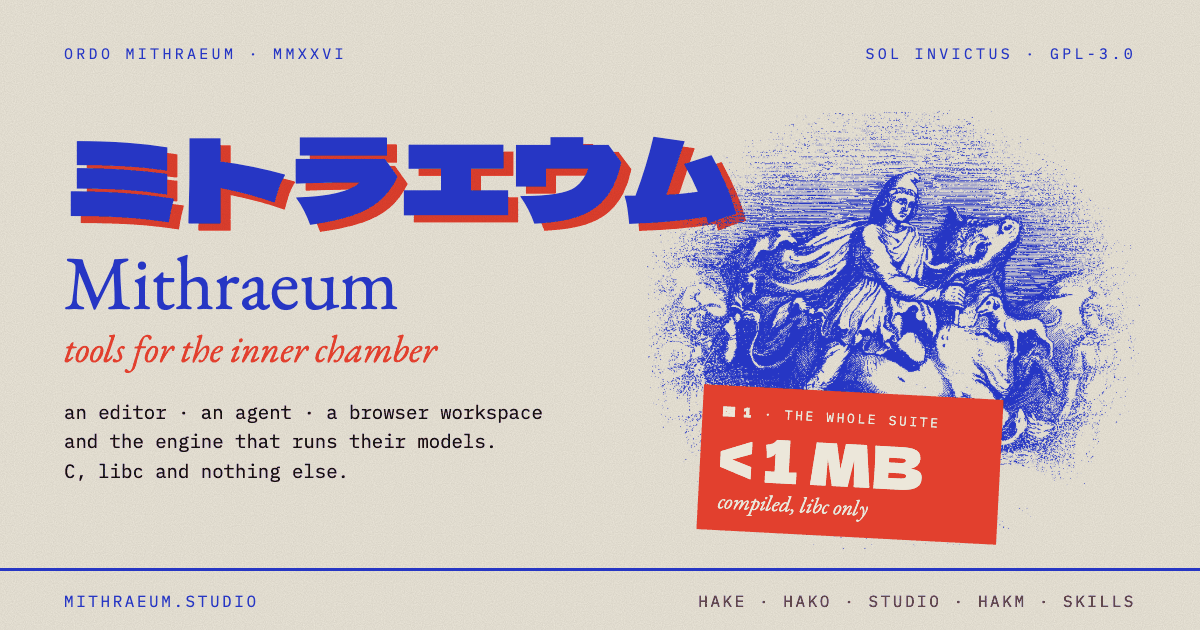
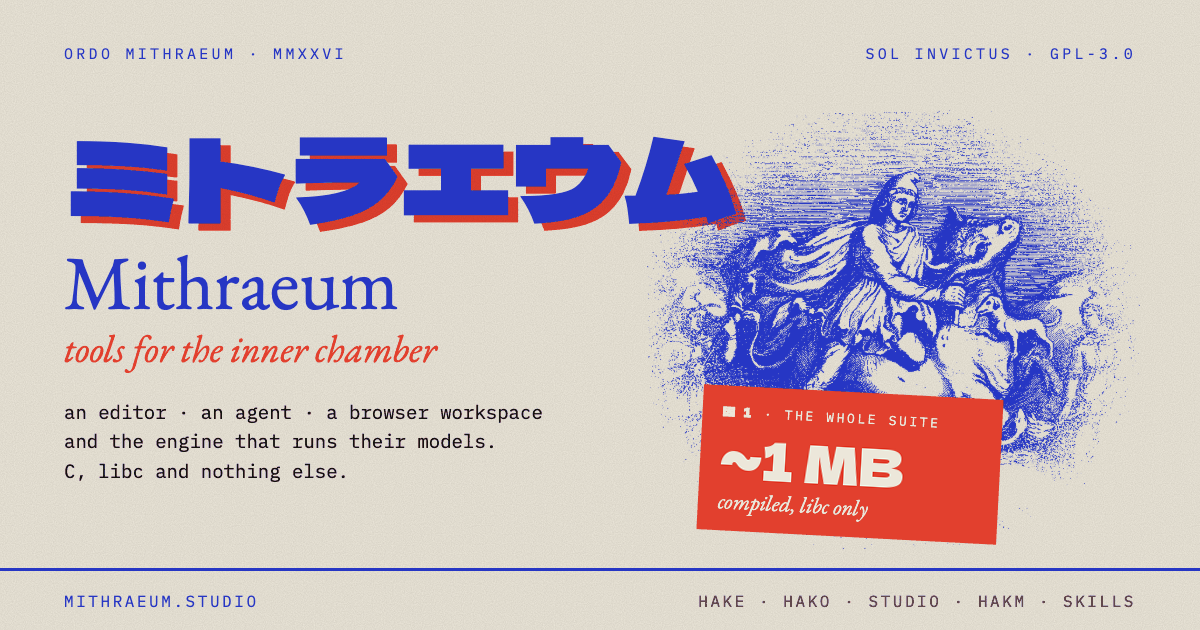
site: hako-code v0.2.7, studio v0.0.6, and the real sizes
- the suite is about 1 mb, not under it: hako 654k, hake 259k, hakm 88k, 32,672 lines of c
- hako is ~650 kb, not 400 kb, on its card and in the share image

Changed region(s): [[0.5858, 0.6937, 0.7708, 0.7841]]

diff --git a/index.html b/index.html
@@ -14,7 +14,7 @@
 <meta property="og:site_name" content="Mithraeum" />
 <meta property="og:url" content="https://mithraeum.studio/" />
 <meta property="og:title" content="Mithraeum — tools for the inner chamber" />
-<meta property="og:description" content="An editor, an agent, a browser workspace and a model engine, in C. The whole suite is under 1 MB and links libc and nothing else." />
+<meta property="og:description" content="An editor, an agent, a browser workspace and a model engine, in C. The whole suite is about 1 MB and links libc and nothing else." />
 <meta property="og:image" content="https://mithraeum.studio/assets/og.png" />
 <meta property="og:image:width" content="1200" />
 <meta property="og:image:height" content="630" />
@@ -764,7 +764,7 @@
 
 <script>
 window.MITH = (function(){
-  const ver = { hake: 'v0.1.8', hako: 'v0.2.6', engine: 'v0.0.4', studio: 'v0.0.5' };
+  const ver = { hake: 'v0.1.8', hako: 'v0.2.7', engine: 'v0.0.4', studio: 'v0.0.6' };
   const repo = {
     edit:    'https://github.com/mithraeums/hako-edit',
     code:    'https://github.com/mithraeums/hako-code',
@@ -781,10 +781,10 @@ window.MITH = (function(){
     build: '2026-10-23',
     email: 'contact@mithraeum.studio',
     releases: [
-      { repo:'hako-code', tag: ver.hako, title:'sign in from anywhere, even iSh',
+      { repo:'hako-code', tag: 'v0.2.6', title:'sign in from anywhere, even iSh',
         body:'<code>:remote</code> goes through your account only now; tailscale is gone. Signing in where there is no browser beside you is easier: the sign-in link or device code lands on your clipboard (<code>/dev/clipboard</code> on iSh), a pasted code loses the spaces a wrapped line gave it, and enter on an empty prompt takes the clipboard. A phone reconnecting is mentioned once, at the desk, not in the chat.',
         date:'2026-10-23' },
-      { repo:'hako-studio', tag: ver.studio, title:'the beta, said plainly',
+      { repo:'hako-studio', tag: 'v0.0.5', title:'the beta, said plainly',
         body:'&#9776; &rarr; code lists your sessions right in the menu, with <b>add a device</b>. Signed out, it says what the closed beta is, what an account keeps (a random id, your passkey&rsquo;s public key, your account key locked by it, your devices&rsquo; keys) and what it never does: chats, files, prompts, provider keys. <b>Request access</b> is an email from your own mail app. Themes preview as you tap them, and the home-screen app fits the screen.',
         date:'2026-10-23' },
       { repo:'hako-code', tag: 'v0.2.5', title:'your terminal, from your phone',
@@ -838,9 +838,9 @@ window.MITH = (function(){
         actions:[['curl install ↗','#install',1,0],['Source ↗',repo.edit,0,1],['Releases',repo.edit+'/releases',0,1]] },
       hako:{ codename:'— II — agent', name:'hako', latin:'箱 · hako-code · the agent',
         status: ver.hako+' · stable', warn:false,
-        desc:'A coding agent in one C file — a <b>400 KB binary</b> that links libc and nothing else. No Python, no Node, no package manager. Defaults to any installed hako model (<code>hako-sho</code> 3B / <code>hako-koi</code> 7B) — no key, no cloud — and adds 13 cloud providers when you want them. <code>hako --serve</code> puts the same agent in a browser tab; the page is compiled into the binary.',
+        desc:'A coding agent in one C file — a <b>~650 KB binary</b> that links libc and nothing else. No Python, no Node, no package manager. Defaults to any installed hako model (<code>hako-sho</code> 3B / <code>hako-koi</code> 7B) — no key, no cloud — and adds 13 cloud providers when you want them. <code>hako --serve</code> puts the same agent in a browser tab; the page is compiled into the binary.',
         sub:'Code search built in (grep · glob · web_fetch) · diffs before it writes · context that folds instead of running out · skills you can switch on as modes · streaming on every provider · trust-gated tools · sha-verified self-update.',
-        meta:[['CLI','hako'],['VERSION',ver.hako],['SIZE','~400 KB'],['DEPS','libc + curl'],['PROVIDERS','1 local + 13 cloud'],['LICENSE','GPL-3.0']],
+        meta:[['CLI','hako'],['VERSION',ver.hako],['SIZE','~650 KB'],['DEPS','libc + curl'],['PROVIDERS','1 local + 13 cloud'],['LICENSE','GPL-3.0']],
         actions:[['curl install ↗','#install',1,0],['Source ↗',repo.code,0,1],['Browse skills','#skills',0,0]] },
       studio:{ codename:'— III — studio', name:'hako studio', latin:'箱 · hako-studio · the chamber',
         status: ver.studio+' · new', warn:false,
@@ -899,7 +899,7 @@ window.MITH = (function(){
       </div>
       <div class="riso-art">
         <img src="assets/art/mithras-giustiniani.png" width="960" height="872" alt="Mithras slaying the bull, after an engraving of the Giustiniani relief, 1636–47">
-        <div class="riso-sticker"><small><b>図 1</b> · THE WHOLE SUITE</small><strong>&lt; 1 MB</strong><span>three binaries, compiled. They link libc and nothing else.</span><em>hako 501K · hake 183K<br>hakm 87K · 29,040 lines of C</em></div>
+        <div class="riso-sticker"><small><b>図 1</b> · THE WHOLE SUITE</small><strong>~1 MB</strong><span>three binaries, compiled. They link libc and nothing else.</span><em>hako 654K · hake 259K<br>hakm 88K · 32,672 lines of C</em></div>
         <svg class="riso-cross" viewBox="0 0 28 28" aria-hidden="true"><circle cx="14" cy="14" r="8" fill="none" stroke="#2636c4" stroke-width="1.5"/><path d="M14 0V28M0 14H28" stroke="#2636c4" stroke-width="1.5"/></svg>
       </div>
     </div>

diff --git a/html/index.html b/html/index.html
@@ -60,13 +60,13 @@
   </article>
   <article id="hako">
     <h3>hako <small>箱 · hako-code · the agent</small></h3>
-    <p class="status">— II — agent &nbsp;·&nbsp; v0.2.6 · stable</p>
-    <p>A coding agent in one C file — a <b>400 KB binary</b> that links libc and nothing else. No Python, no Node, no package manager. Defaults to any installed hako model (<code>hako-sho</code> 3B / <code>hako-koi</code> 7B) — no key, no cloud — and adds 13 cloud providers when you want them. <code>hako --serve</code> puts the same agent in a browser tab; the page is compiled into the binary.</p>
+    <p class="status">— II — agent &nbsp;·&nbsp; v0.2.7 · stable</p>
+    <p>A coding agent in one C file — a <b>~650 KB binary</b> that links libc and nothing else. No Python, no Node, no package manager. Defaults to any installed hako model (<code>hako-sho</code> 3B / <code>hako-koi</code> 7B) — no key, no cloud — and adds 13 cloud providers when you want them. <code>hako --serve</code> puts the same agent in a browser tab; the page is compiled into the binary.</p>
     <p class="sub">— Code search built in (grep · glob · web_fetch) · diffs before it writes · context that folds instead of running out · skills you can switch on as modes · streaming on every provider · trust-gated tools · sha-verified self-update.</p>
     <dl>
       <dt>CLI</dt><dd>hako</dd>
-      <dt>VERSION</dt><dd>v0.2.6</dd>
-      <dt>SIZE</dt><dd>~400 KB</dd>
+      <dt>VERSION</dt><dd>v0.2.7</dd>
+      <dt>SIZE</dt><dd>~650 KB</dd>
       <dt>DEPS</dt><dd>libc + curl</dd>
       <dt>PROVIDERS</dt><dd>1 local + 13 cloud</dd>
       <dt>LICENSE</dt><dd>GPL-3.0</dd>
@@ -75,12 +75,12 @@
   </article>
   <article id="hako studio">
     <h3>hako studio <small>箱 · hako-studio · the chamber</small></h3>
-    <p class="status">— III — studio &nbsp;·&nbsp; v0.0.5 · new</p>
+    <p class="status">— III — studio &nbsp;·&nbsp; v0.0.6 · new</p>
     <p>The agent with a face. The same <code>hako.c</code> compiled to WebAssembly, so it runs <b>on your device, in your browser</b> — no install, no account needed, no backend, and nothing proxied through us. Open it hosted, run the container, or serve it from the binary with <code>hako --serve</code>; it is one piece of software in three shapes.</p>
     <p class="sub">— Your key goes straight to the provider · work stays in your browser or a folder you grant · per-folder sessions · files you can save out · themes, model and provider pickers · sign in to drive your terminal sessions from any device, end to end encrypted.</p>
     <dl>
       <dt>OPEN</dt><dd>hako.mithraeum.studio</dd>
-      <dt>VERSION</dt><dd>v0.0.5</dd>
+      <dt>VERSION</dt><dd>v0.0.6</dd>
       <dt>RUNS</dt><dd>browser · docker · hako --serve</dd>
       <dt>BACKEND</dt><dd>none</dd>
       <dt>LICENSE</dt><dd>GPL-3.0</dd>
